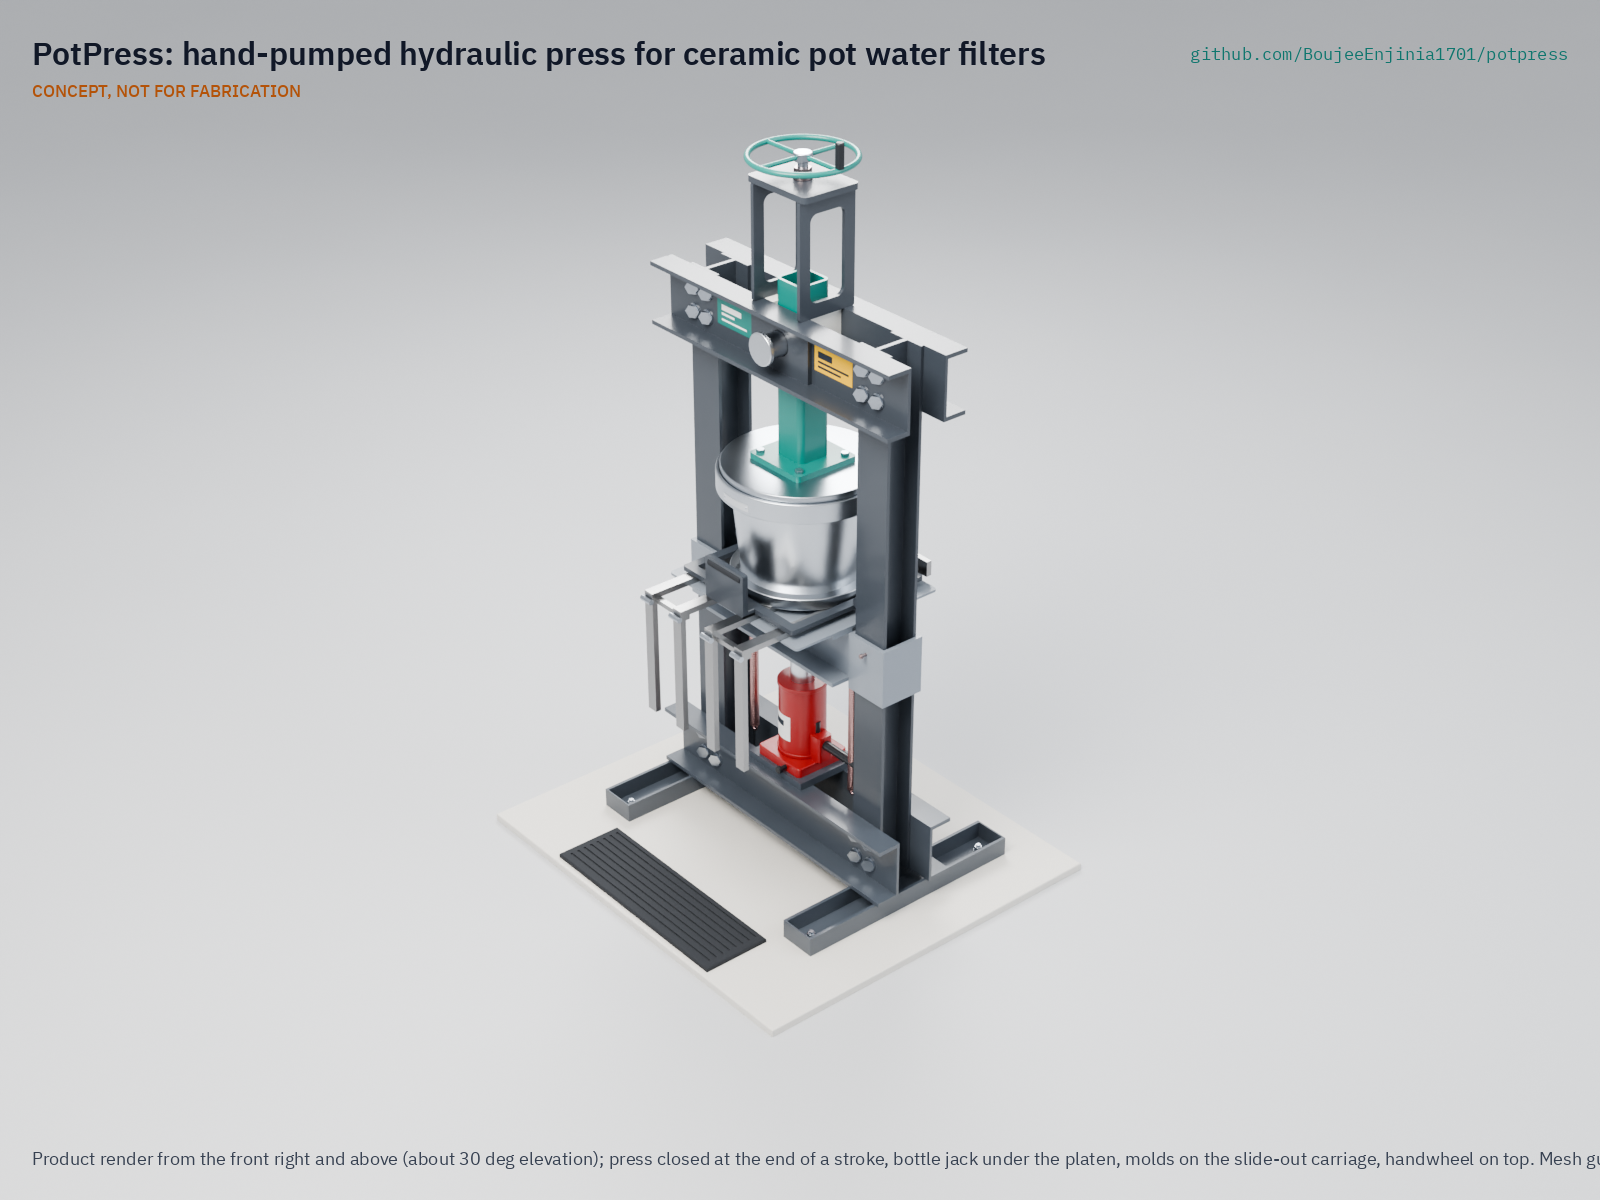
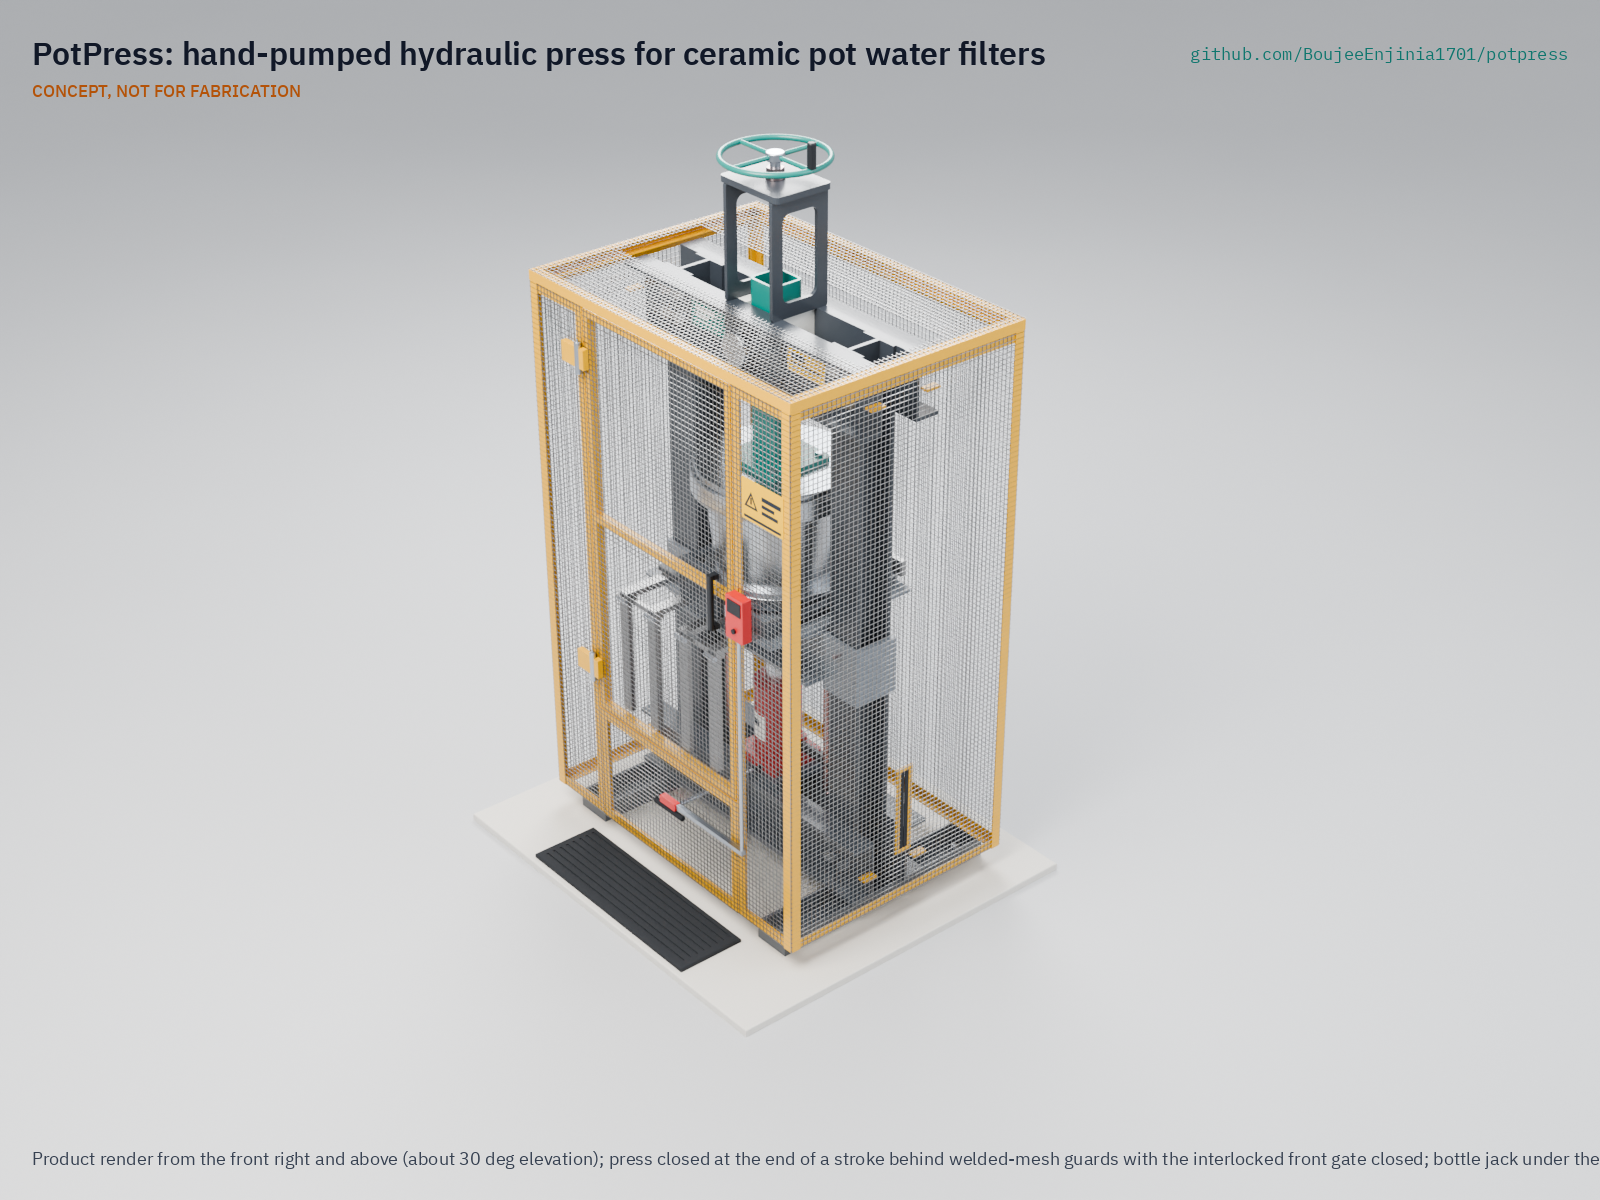
Re-render the guarded version
media/render-hero, render-exploded and render-lineup now show the guarded
press; new render-gate-open shows the gate open with the interlock.

Claude-Session: https://claude.ai/code/session_01XuhhSU4W6fYhgCfURbrkut

Changed region(s): [[0.3125, 0.0925, 0.6562, 0.8325], [0.5625, 0.9558, 1.0, 0.9867]]

diff --git a/README.md b/README.md
@@ -8,7 +8,7 @@ Hydraulic press with printable mold geometry for silver-treated ceramic pot filt
 
 ![PotPress: hand-pumped hydraulic press for ceramic pot water filters, product render](media/render-hero.png)
 
-[Exploded render](media/render-exploded.png) · [Lineup render](media/render-lineup.png) · [Interactive 3D model](media/viewer.html) · [Concept blueprint (PDF)](media/concept-blueprint.pdf) · [General arrangement PPR-DWG-001 (PDF)](cad/drawings/PPR-DWG-001.pdf) · [Sizing note PPR-CAL-001](docs/04-calcs/01-sizing.md) · [Review note](docs/REVIEW.md)
+[Exploded render](media/render-exploded.png) · [Gate open render](media/render-gate-open.png) · [Lineup render](media/render-lineup.png) · [Interactive 3D model](media/viewer.html) · [Concept blueprint (PDF)](media/concept-blueprint.pdf) · [General arrangement PPR-DWG-001 (PDF)](cad/drawings/PPR-DWG-001.pdf) · [Sizing note PPR-CAL-001](docs/04-calcs/01-sizing.md) · [Review note](docs/REVIEW.md)
 
 ## Concept rationale
 
